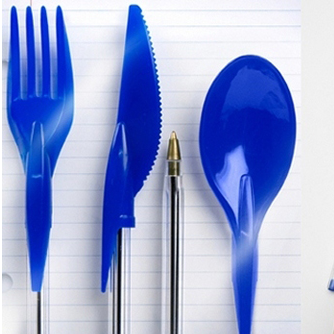
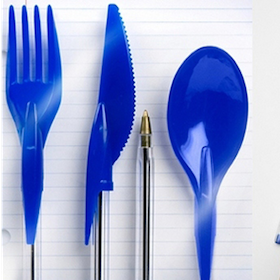
Image selection and change on click working. images resized to fit within boundaries

diff --git a/js/app.js b/js/app.js
@@ -25,7 +25,7 @@ new Product('Yummy Meatball Bubblegum','bubblegum.jpg');
 new Product('Over-inflated Chair','chair.jpg');
 new Product('Toy Gargoyl','cthulhu.jpg');
 new Product('Duck\'s Beak Muzzle','dog-duck.jpg');
-new Product('Canned Dragon Meat','dragon.jpg');
+new Product('Canned Dragon Meat','dragon.png');
 new Product('Bic Pen Cap Cutlery','pen-left.png');
 new Product('Floor Sweeping Pet Footies','pet-sweep.jpg');
 new Product('Pizza Cutting Scissors','scissors.jpg');

diff --git a/css/style.css b/css/style.css
@@ -35,12 +35,21 @@ figure {
   display: block;
   float: left;
   width: 300px;
-  height: 350px;
+  height: 400px;
   border: 10px solid #444;
   margin: 10px 5px;
+  position: relative;
 }
+
 figcaption {
   text-align: center;
   font-family: sans-serif;
   font-size: 120%;
+  position: absolute;
+  top: 370px;
+  width: 100%;
+}
+
+figure img {
+  width: 100%;
 }
